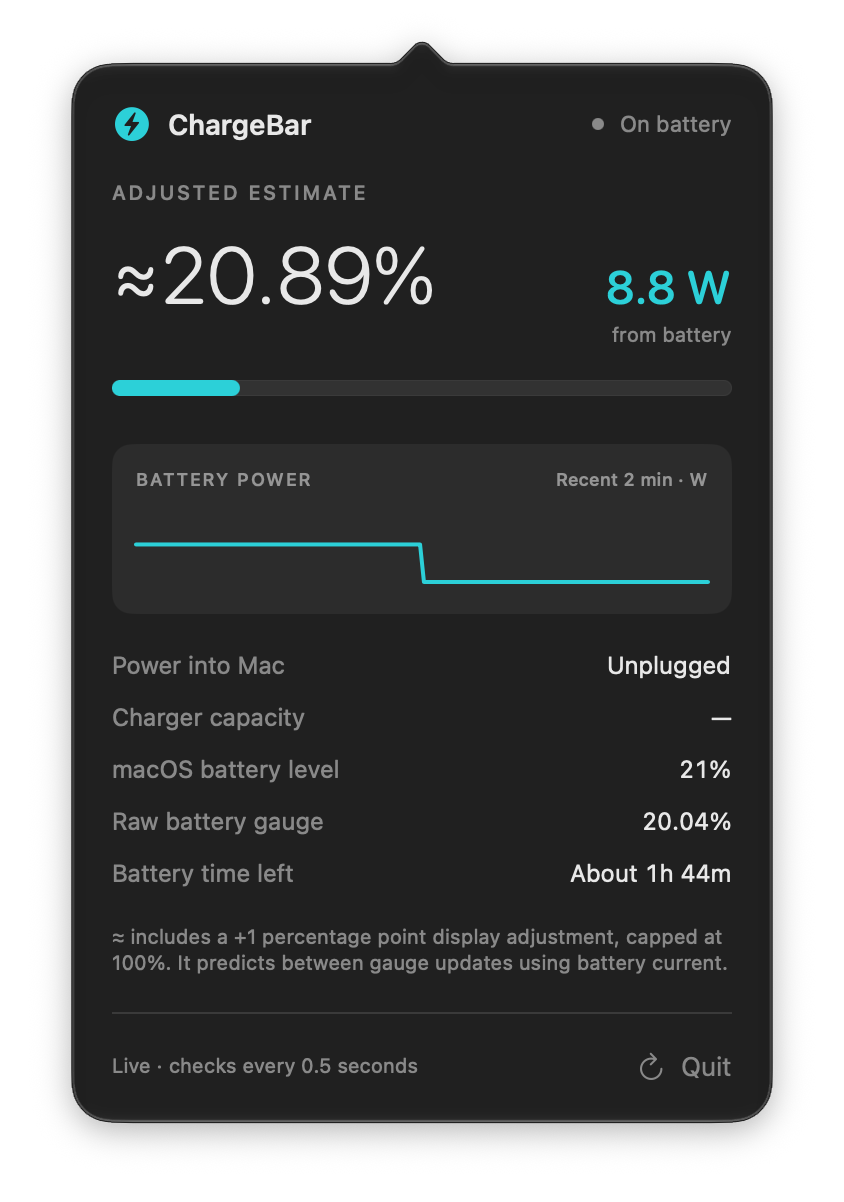
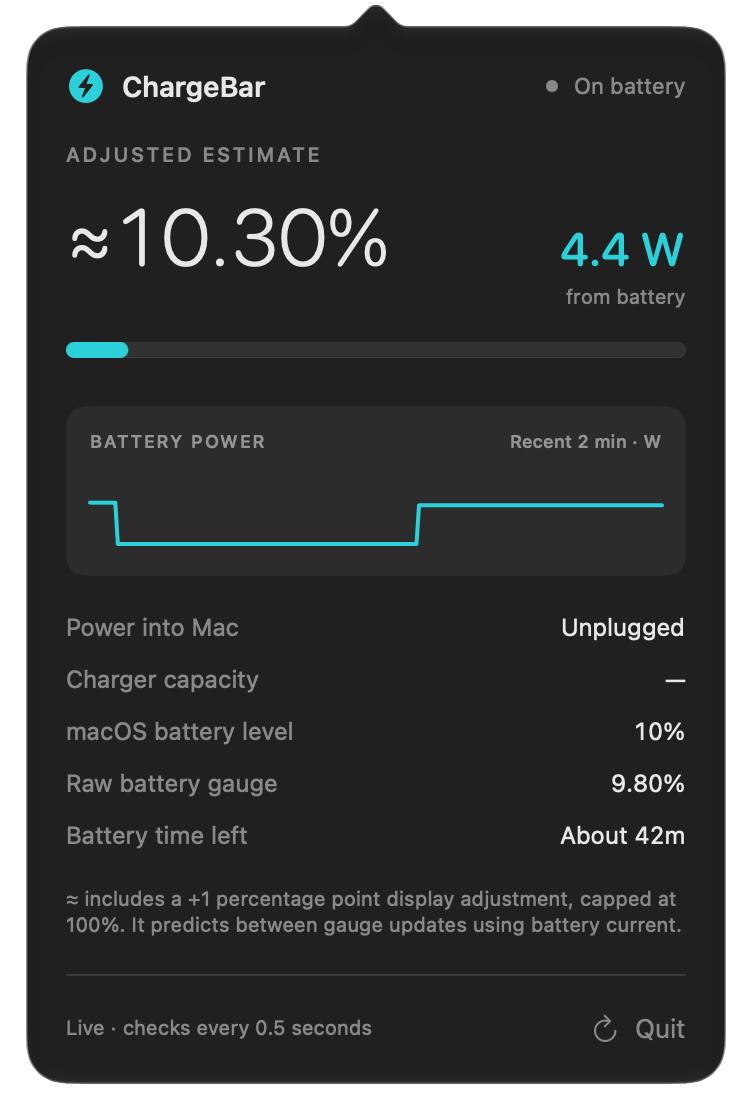
Replace battery panel image with a clean native capture

Changed region(s): [[0.0306, 0.0, 0.9787, 0.9802], [0.1223, 0.3676, 0.4894, 0.4901]]

diff --git a/README.md b/README.md
@@ -29,7 +29,7 @@ Estimated charge and live battery watts, visible at a glance.
 Click the menu bar reading for power history, charger details and estimated time remaining.
 
 <p align="center">
-  <img src="assets/panel.png" alt="ChargeBar's expanded battery panel with power history, charging details and estimated runtime" width="360">
+  <img src="assets/panel.png" alt="ChargeBar's complete native battery panel showing live battery watts, power history and estimated time remaining" width="376">
 </p>
 
 ## Features
